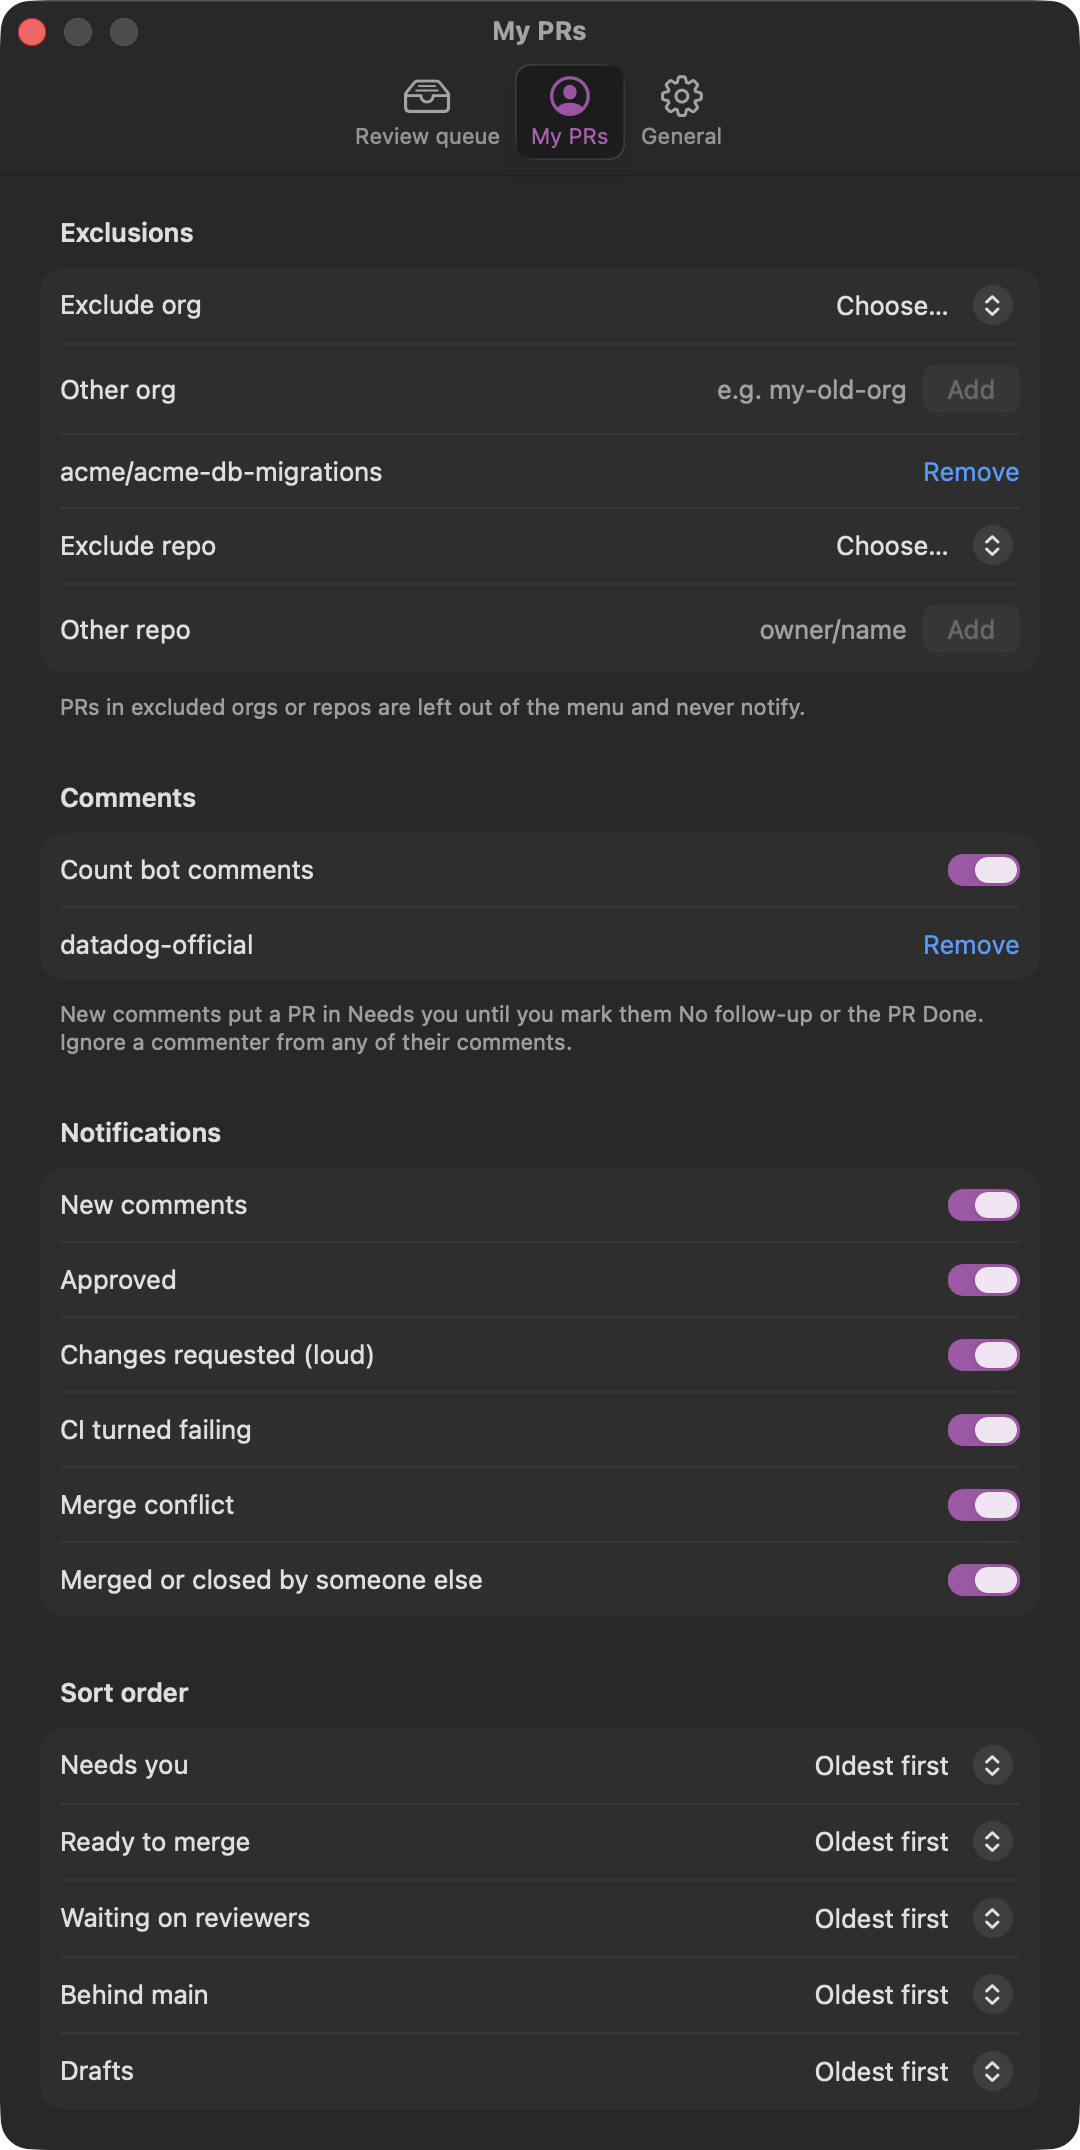
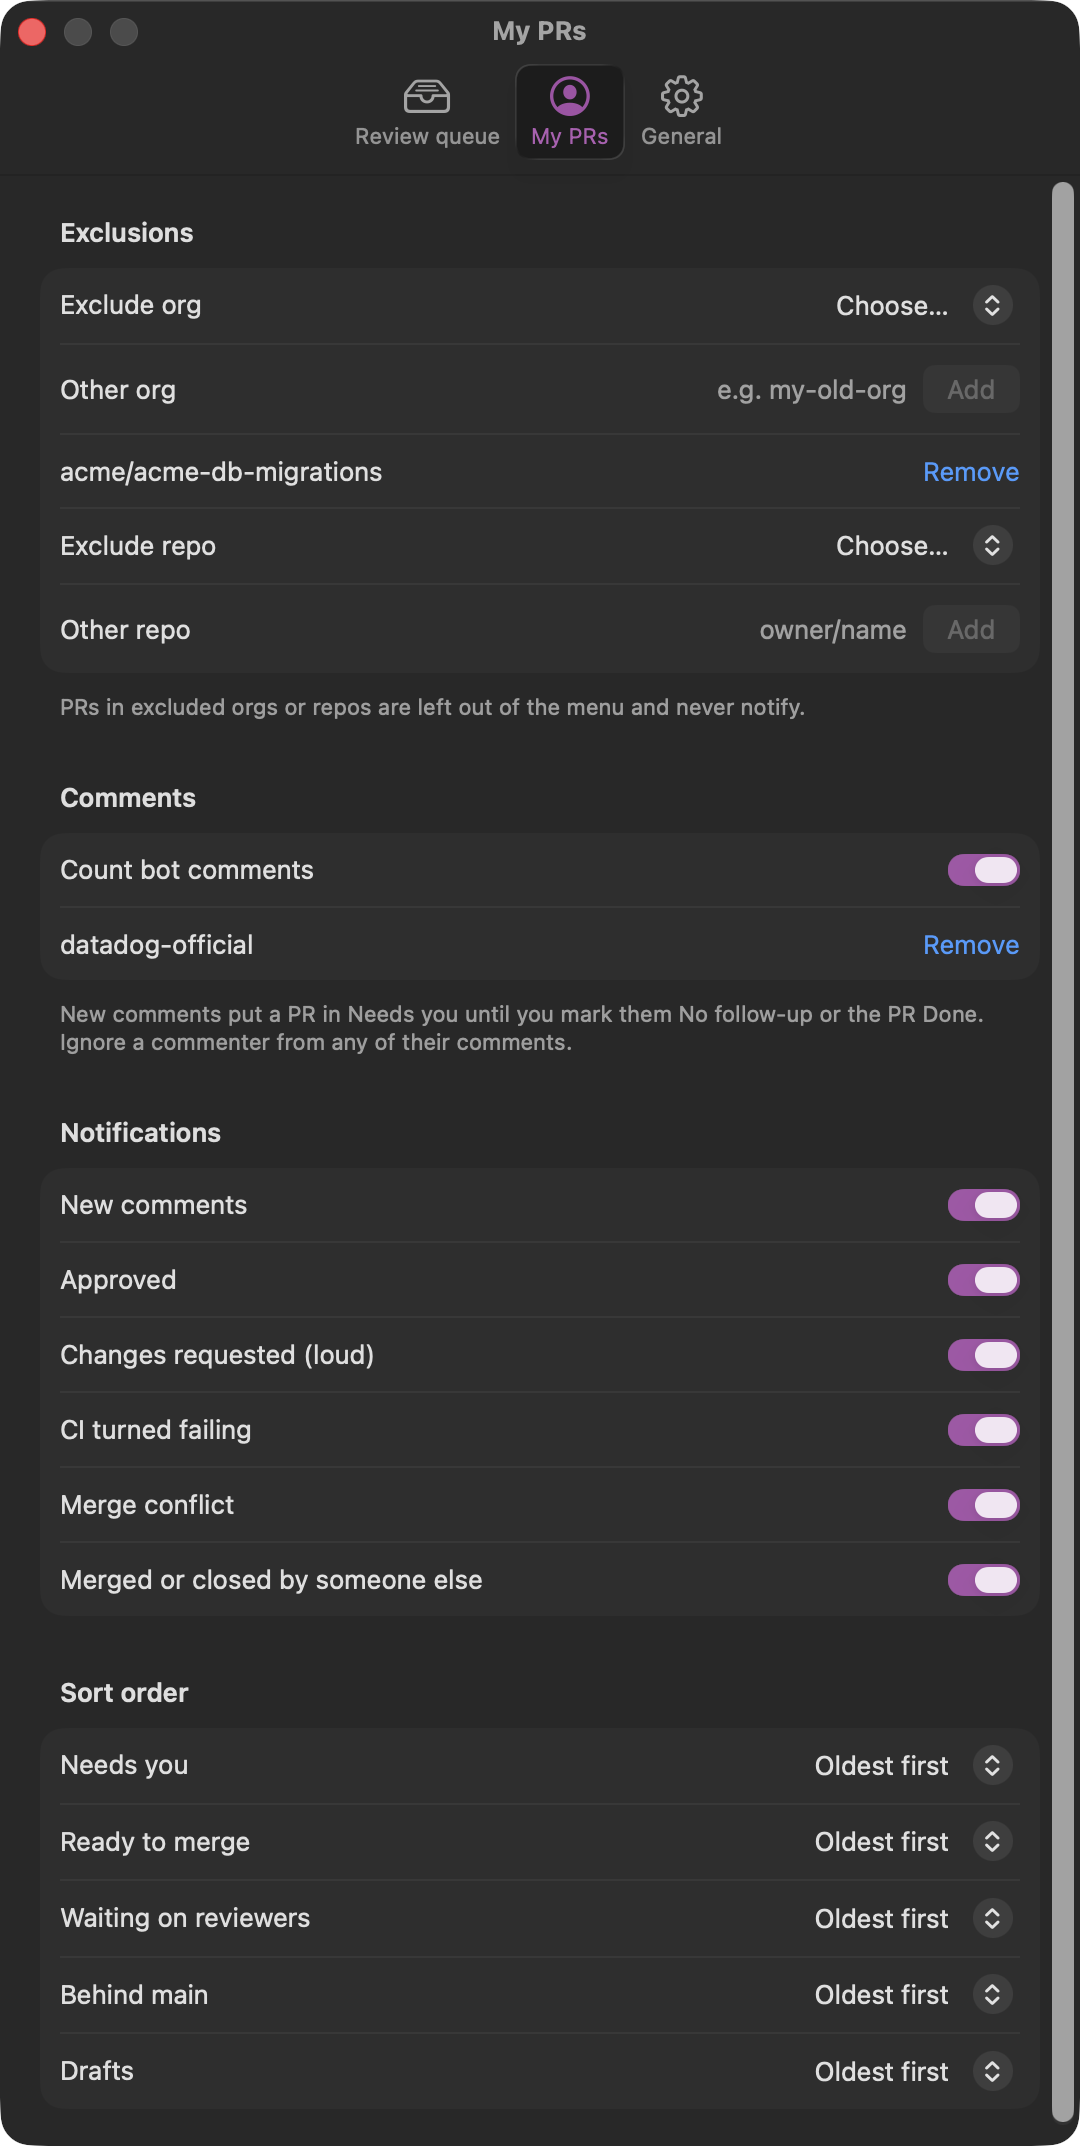
feat: allow chosen bot authors into the review queue (#12)
Bot-authored PRs were always dropped from Needs review, hiding PRs from
GitHub Apps the user is asked to review. Add an "Allowed bot authors"
setting (matched case-insensitively, with or without [bot]) so listed
bots stay in the queue and appear in the priority pickers. Extract the
login list UI shared with ignored commenters into LoginList, add tests,
a demo entry, and regenerated README screenshots.

diff --git a/Tests/ReviewQueueCoreTests/AllowedBotTests.swift b/Tests/ReviewQueueCoreTests/AllowedBotTests.swift
@@ -1,0 +1,59 @@
+import Foundation
+import Testing
+@testable import ReviewQueueCore
+
+@Suite struct AllowedBotTests {
+    private let karbi = Author(login: "karbi-github", typename: "Bot")
+    private let renovate = Author(login: "renovate", typename: "Bot")
+    private let human = Author(login: "alice")
+
+    private func settings(_ bots: [String]) -> QueueSettings {
+        var settings = QueueSettings()
+        settings.allowedBotAuthors = bots
+        return settings
+    }
+
+    @Test func matchesPlainLoginBotSuffixAndCase() {
+        #expect(isAllowedBot(karbi, settings(["karbi-github"])))
+        #expect(isAllowedBot(karbi, settings(["Karbi-GitHub[bot]"])))
+        #expect(isAllowedBot(Author(login: "Karbi-GitHub[bot]", typename: "Bot"), settings(["karbi-github"])))
+        #expect(isAllowedBot(karbi, settings([" karbi-github "])))
+    }
+
+    @Test func doesNotMatchOtherLoginsOrNilAuthor() {
+        #expect(!isAllowedBot(renovate, settings(["karbi-github"])))
+        #expect(!isAllowedBot(karbi, settings([])))
+        #expect(!isAllowedBot(nil, settings(["karbi-github"])))
+    }
+
+    @Test func queueKeepsHumansAndAllowedBotsOnly() {
+        let allowed = settings(["karbi-github"])
+        #expect(isQueueAuthor(human, me: "me", allowed))
+        #expect(isQueueAuthor(karbi, me: "me", allowed))
+        #expect(!isQueueAuthor(renovate, me: "me", allowed))
+        #expect(!isQueueAuthor(karbi, me: "me", settings([])))
+        #expect(!isQueueAuthor(nil, me: "me", allowed))
+    }
+
+    @Test func queueDropsYourOwnPrsEvenWhenAllowed() {
+        #expect(!isQueueAuthor(Author(login: "me"), me: "me", settings(["me"])))
+        #expect(!isQueueAuthor(Author(login: "me", typename: "Bot"), me: "me", settings(["me"])))
+    }
+
+    @Test func settingTogglesWithoutDuplicatesAcrossSpellings() {
+        var value = QueueSettings()
+        value.setAllowedBotAuthor("  karbi-github ", isOn: true)
+        value.setAllowedBotAuthor("Karbi-GitHub[bot]", isOn: true)
+        value.setAllowedBotAuthor("   ", isOn: true)
+        #expect(value.allowedBotAuthors == ["karbi-github"])
+        value.setAllowedBotAuthor("KARBI-GITHUB[bot]", isOn: false)
+        #expect(value.allowedBotAuthors.isEmpty)
+    }
+
+    @Test func settingsDecodeWithoutTheKeyDefaultsToEmpty() throws {
+        let old = try JSONDecoder().decode(QueueSettings.self, from: Data(#"{"teams":["acme/team-eng"]}"#.utf8))
+        #expect(old.allowedBotAuthors.isEmpty)
+        let saved = try JSONDecoder().decode(QueueSettings.self, from: Data(#"{"allowedBotAuthors":["release-bot"]}"#.utf8))
+        #expect(saved.allowedBotAuthors == ["release-bot"])
+    }
+}

diff --git a/Sources/ReviewQueueCore/GitHubClient.swift b/Sources/ReviewQueueCore/GitHubClient.swift
@@ -106,10 +106,10 @@ public actor GitHubClient {
         try await restPages("user/teams", as: TeamJSON.self).map { "\($0.organization.login)/\($0.slug)" }.sorted()
     }
 
-    /// Lists open, human-authored PRs (not yours) in the repos the chosen teams hold at the chosen access, with your review
+    /// Lists open PRs (not yours) by humans and by the bots `settings` allows in the repos the chosen teams hold at the chosen access, with your review
     /// standing, comment counts and CI state. Two passes: a light list over every repo, then details in batches, which
     /// keeps each GraphQL query under GitHub's node limit. Repos and members are unioned across `teams`.
-    public func fetchQueue(teams: [String], access: RepoAccess) async throws -> FetchResult {
+    public func fetchQueue(teams: [String], access: RepoAccess, settings: QueueSettings) async throws -> FetchResult {
         let me = try await viewerLogin()
         var repos: [Repo] = []
         var members: [String] = []
@@ -117,7 +117,7 @@ public actor GitHubClient {
             repos += try await teamRepos(team, access: access)
             members += try await teamMembers(team)
         }
-        let candidates = try await listCandidates(unique(repos), me: me)
+        let candidates = try await listCandidates(unique(repos), me: me, settings: settings)
         let prs = try await detailed(candidates, fragment: Self.queueFragment).map { queuePr($0, detail: $1, me: me) }
         let people = Set(members + prs.map(\.author)).filter { $0 != me }.sorted()
         return FetchResult(prs: prs, people: people, me: me)
@@ -191,7 +191,7 @@ public actor GitHubClient {
         return (parts.first ?? "", parts.count > 1 ? parts[1] : "")
     }
 
-    private func listCandidates(_ repos: [Repo], me: String) async throws -> [Candidate] {
+    private func listCandidates(_ repos: [Repo], me: String, settings: QueueSettings) async throws -> [Candidate] {
         var found: [Candidate] = []
         for start in stride(from: 0, to: repos.count, by: Self.repoBatch) {
             let batch = Array(repos[start..<min(start + Self.repoBatch, repos.count)])
@@ -205,7 +205,7 @@ public actor GitHubClient {
                 }
             }
         }
-        return found.filter { !isBot($0.node.author) && $0.node.author?.login != me }
+        return found.filter { isQueueAuthor($0.node.author, me: me, settings) }
     }
 
     private func fetchDetails(_ batch: [Candidate], fragment: String) async throws -> [DetailNode?] {

diff --git a/Sources/ReviewQueueCore/Settings.swift b/Sources/ReviewQueueCore/Settings.swift
@@ -13,6 +13,7 @@ public struct QueueSettings: Codable, Equatable, Sendable {
     public var blockPrefs: [Block: BlockPrefs] = [:]
     public var linearWorkspace = ""
     public var ignoredCiSources: [String] = []
+    public var allowedBotAuthors: [String] = []
     public var notifyHigh = true
     public var repeatHighReminders = true
     public var notifyNeeds = true
@@ -24,7 +25,7 @@ public struct QueueSettings: Codable, Equatable, Sendable {
     public init() {}
 
     enum CodingKeys: String, CodingKey {
-        case intervalMinutes, teams, repoAccess, highUsers, lowUsers, hiddenDetails, blockPrefs, linearWorkspace, ignoredCiSources
+        case intervalMinutes, teams, repoAccess, highUsers, lowUsers, hiddenDetails, blockPrefs, linearWorkspace, ignoredCiSources, allowedBotAuthors
         case notifyHigh, repeatHighReminders, notifyNeeds, notifyReviewRequested, highSound, normalSound, myPrs
     }
 
@@ -40,6 +41,7 @@ public struct QueueSettings: Codable, Equatable, Sendable {
         blockPrefs = try c.value(.blockPrefs, or: d.blockPrefs)
         linearWorkspace = try c.value(.linearWorkspace, or: d.linearWorkspace)
         ignoredCiSources = try c.value(.ignoredCiSources, or: d.ignoredCiSources)
+        allowedBotAuthors = try c.value(.allowedBotAuthors, or: d.allowedBotAuthors)
         notifyHigh = try c.value(.notifyHigh, or: d.notifyHigh)
         repeatHighReminders = try c.value(.repeatHighReminders, or: d.repeatHighReminders)
         notifyNeeds = try c.value(.notifyNeeds, or: d.notifyNeeds)
@@ -89,6 +91,12 @@ public struct QueueSettings: Codable, Equatable, Sendable {
     public mutating func setIgnoredCiSource(_ source: String, isOn: Bool) {
         let match = ignoredCiSources.first { $0.caseInsensitiveCompare(source.trimmingCharacters(in: .whitespacesAndNewlines)) == .orderedSame }
         ignoredCiSources = toggledName(ignoredCiSources, match ?? source, isOn: isOn)
+    }
+
+    /// Adds (trimmed, ignoring blanks) or removes a bot whose PRs the review queue keeps; bots match without case or a `[bot]` suffix.
+    public mutating func setAllowedBotAuthor(_ login: String, isOn: Bool) {
+        let match = allowedBotAuthors.first { botKey($0) == botKey(login) }
+        allowedBotAuthors = toggledName(allowedBotAuthors, match ?? login, isOn: isOn)
     }
 
     public func shows(_ detail: CardDetail) -> Bool {

diff --git a/Sources/ReviewQueue/SettingsView.swift b/Sources/ReviewQueue/SettingsView.swift
@@ -33,6 +33,7 @@ private struct ReviewQueueSettings: View {
     var body: some View {
         Form {
             teams
+            allowedBotAuthors
             ForEach(Block.allCases) { block in
                 BlockSettings(model: model, block: block)
             }
@@ -45,6 +46,23 @@ private struct ReviewQueueSettings: View {
             }
         }
         .formStyle(.grouped)
+    }
+
+    private var allowedBotAuthors: some View {
+        Section {
+            LoginList(
+                logins: model.settings.allowedBotAuthors,
+                emptyText: "No allowed bot authors.",
+                onRemove: { login in model.update(refreshAfter: true) { $0.setAllowedBotAuthor(login, isOn: false) } },
+                add: LoginList.Add(title: "Bot login", prompt: "e.g. release-bot") { login in
+                    model.update(refreshAfter: true) { $0.setAllowedBotAuthor(login, isOn: true) }
+                }
+            )
+        } header: {
+            Text("Allowed bot authors")
+        } footer: {
+            Text("PRs opened by bots are hidden from the queue unless the bot is listed here. Enter the login with or without [bot].")
+        }
     }
 
     private var teams: some View {
@@ -234,6 +252,33 @@ func settingsBinding<T>(_ model: AppModel, _ keyPath: WritableKeyPath<QueueSetti
         get: { model.settings[keyPath: keyPath] },
         set: { value in model.update(refreshAfter: refreshAfter) { $0[keyPath: keyPath] = value } }
     )
+}
+
+/// A list of logins with a Remove button each, an empty-state line, and an optional add field.
+struct LoginList: View {
+    /// The add field's title, placeholder and handler; omit it for a list that is only filled elsewhere.
+    struct Add {
+        let title: String
+        let prompt: String
+        let onAdd: (String) -> Void
+    }
+
+    let logins: [String]
+    let emptyText: String
+    let onRemove: (String) -> Void
+    var add: Add?
+
+    var body: some View {
+        if logins.isEmpty {
+            Text(emptyText).foregroundStyle(.secondary)
+        }
+        ForEach(logins, id: \.self) { login in
+            RemovableRow(name: login) { onRemove(login) }
+        }
+        if let add {
+            AddField(title: add.title, prompt: add.prompt, onAdd: add.onAdd)
+        }
+    }
 }
 
 struct RemovableRow: View {

diff --git a/Sources/ReviewQueueCore/GitHubParsing.swift b/Sources/ReviewQueueCore/GitHubParsing.swift
@@ -165,6 +165,23 @@ func isBot(_ author: Author?) -> Bool {
     return author.typename == "Bot" || author.login.hasSuffix("[bot]") || botLogins.contains(author.login)
 }
 
+/// A bot login reduced for comparison: trimmed, lowercased, without GitHub's REST `[bot]` suffix.
+func botKey(_ login: String) -> String {
+    let lowered = login.trimmingCharacters(in: .whitespacesAndNewlines).lowercased()
+    return lowered.hasSuffix("[bot]") ? String(lowered.dropLast("[bot]".count)) : lowered
+}
+
+/// Whether the author is a bot the person listed in Settings; `karbi-github` and `Karbi-GitHub[bot]` both match `karbi-github`.
+func isAllowedBot(_ author: Author?, _ settings: QueueSettings) -> Bool {
+    guard let author else { return false }
+    return settings.allowedBotAuthors.contains { botKey($0) == botKey(author.login) }
+}
+
+/// Whether a PR by this author belongs in the queue: humans and allowed bots, never you.
+func isQueueAuthor(_ author: Author?, me: String, _ settings: QueueSettings) -> Bool {
+    author?.login != me && (!isBot(author) || isAllowedBot(author, settings))
+}
+
 /// Pulls the Linear identifier out of a branch name or title: `eng-2368-foo` and `alex/eng-2291` both give `ENG-2368`/`ENG-2291`.
 /// Single-letter prefixes and date-like numbers are skipped so `w-9` and `report-2026-08-04` never match.
 public func storyIdOf(_ branch: String, _ title: String) -> String? {

diff --git a/Sources/ReviewQueue/MyPrsSettingsView.swift b/Sources/ReviewQueue/MyPrsSettingsView.swift
@@ -34,12 +34,11 @@ struct MyPrsSettingsView: View {
             }
             Section {
                 Toggle("Count bot comments", isOn: myBinding(\.isBotCommentsShown))
-                if settings.ignoredCommenters.isEmpty {
-                    Text("No ignored commenters.").foregroundStyle(.secondary)
-                }
-                ForEach(settings.ignoredCommenters, id: \.self) { login in
-                    RemovableRow(name: login) { model.update { $0.myPrs.setIgnored(login, isOn: false) } }
-                }
+                LoginList(
+                    logins: settings.ignoredCommenters,
+                    emptyText: "No ignored commenters.",
+                    onRemove: { login in model.update { $0.myPrs.setIgnored(login, isOn: false) } }
+                )
             } header: {
                 Text("Comments")
             } footer: {

diff --git a/Sources/ReviewQueue/AppModel.swift b/Sources/ReviewQueue/AppModel.swift
@@ -302,7 +302,7 @@ final class AppModel {
         let queue: Result<(FetchResult, [String]), any Error>
         do {
             let teams = try await github.listMyTeams()
-            let result = current.teams.isEmpty ? FetchResult.empty : try await github.fetchQueue(teams: current.teams, access: current.repoAccess)
+            let result = current.teams.isEmpty ? FetchResult.empty : try await github.fetchQueue(teams: current.teams, access: current.repoAccess, settings: current)
             queue = .success((result, teams))
         } catch {
             queue = .failure(error)

diff --git a/Sources/ReviewQueueCore/DemoData.swift b/Sources/ReviewQueueCore/DemoData.swift
@@ -28,6 +28,7 @@ public struct DemoData: Sendable {
         settings.myPrs.excludedRepos = ["acme/acme-db-migrations"]
         settings.myPrs.ignoredCommenters = ["datadog-official"]
         settings.ignoredCiSources = ["vercel"]
+        settings.allowedBotAuthors = ["release-bot"]
         self.settings = settings
         people = ["alex-morgan", "jdoe", "priya-n", "sam-rivera"]
         teams = settings.teams + ["acme/mobile"]

diff --git a/README.md b/README.md
@@ -42,7 +42,7 @@ Run `make install` before turning on Launch at login, since `SMAppService` regis
 
 ## Using it
 
-Open Settings from the review queue's menu bar window and pick your GitHub teams. Open PRs in those teams' repos (owned or writable, your choice) make up the queue, minus your own PRs and bot PRs. Both lists refresh together every 15 minutes by default (5, 10, 15, 30 or 60), on wake from sleep, and when you open either menu with data older than the interval. A failure in one list shows on its own menu and leaves the other untouched.
+Open Settings from the review queue's menu bar window and pick your GitHub teams. Open PRs in those teams' repos (owned or writable, your choice) make up the queue, minus your own PRs and bot PRs (unless you list the bot under Allowed bot authors). Both lists refresh together every 15 minutes by default (5, 10, 15, 30 or 60), on wake from sleep, and when you open either menu with data older than the interval. A failure in one list shows on its own menu and leaves the other untouched.
 
 Settings are stored as JSON in `~/Library/Application Support/nz.anthonykyle.ReviewQueue/`, next to the notification seen-state of both menus, the Done marks, the acknowledged My PRs comments, the Linear lookup cache and the registered Linear OAuth client id. The Linear OAuth tokens live in the Keychain.
 
@@ -56,7 +56,7 @@ The settings window has three tabs, and each menu's Settings button opens its ow
 <img width="32%" alt="General settings" src="docs/images/settings-general.png" />
 </p>
 
-- **Review queue**: teams, repo access, per-block sort, approved-by-others and changes-requested-by-others inclusions, and pinned / muted authors, and the queue's notification rules.
+- **Review queue**: teams, repo access, allowed bot authors, per-block sort, approved-by-others and changes-requested-by-others inclusions, and pinned / muted authors, and the queue's notification rules.
 - **My PRs**: excluded orgs and repos, bot comments, ignored commenters, notification rules and per-block sort.
 - **General**: Linear sign-in and workspace slug, refresh interval, card details (shared by both menus), ignored CI sources, the loud alert sound with a Test button, and launch at login.
 
